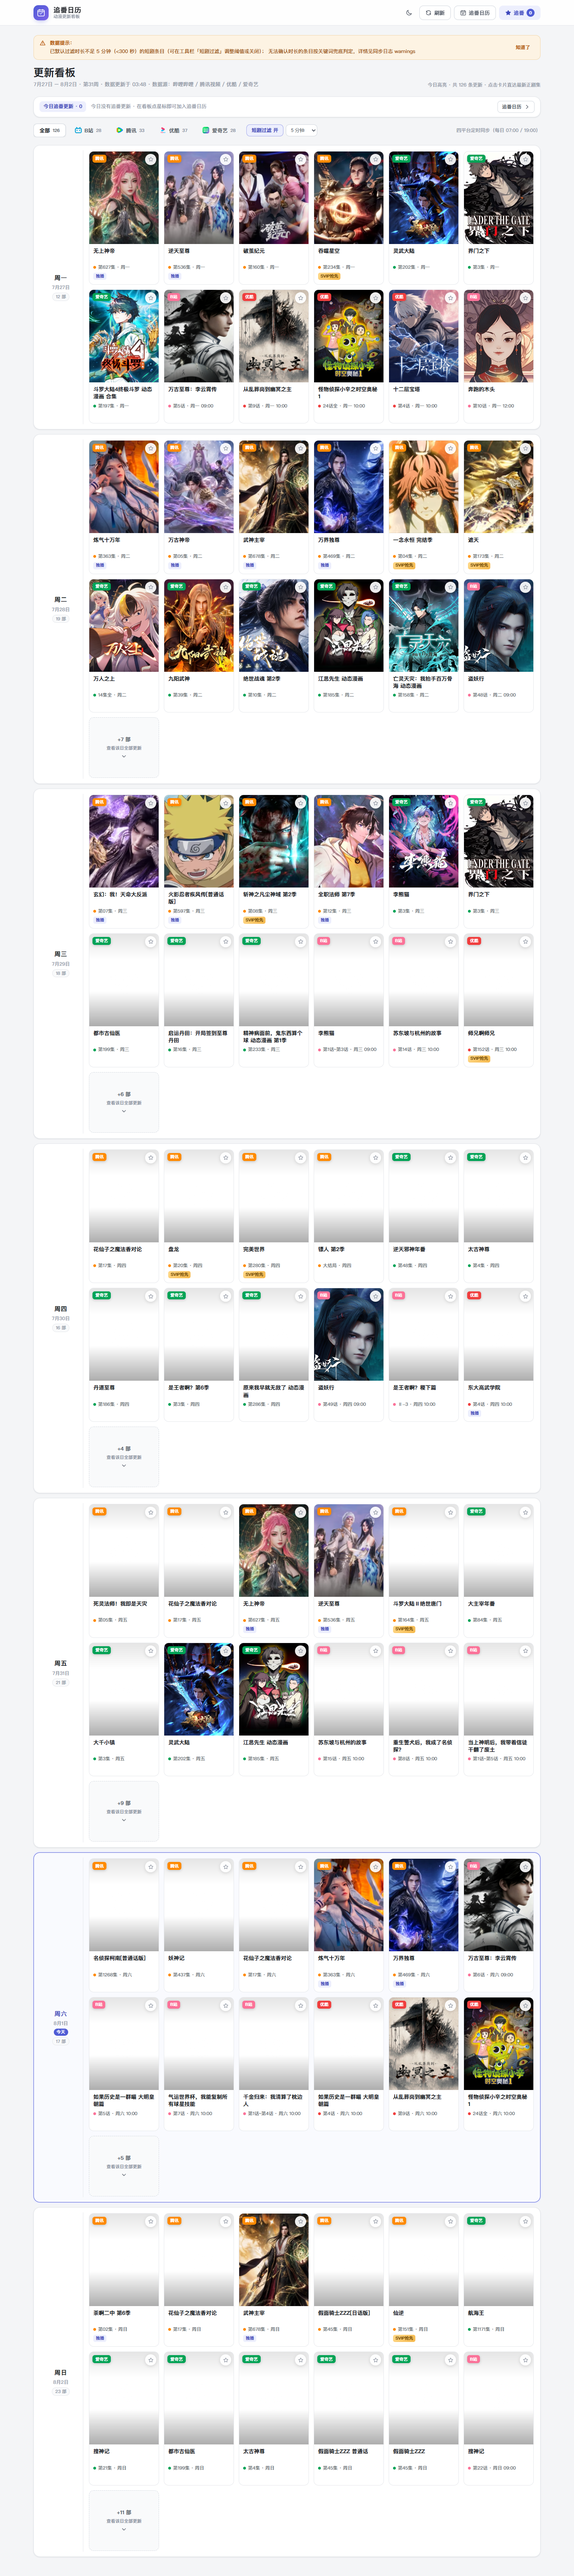
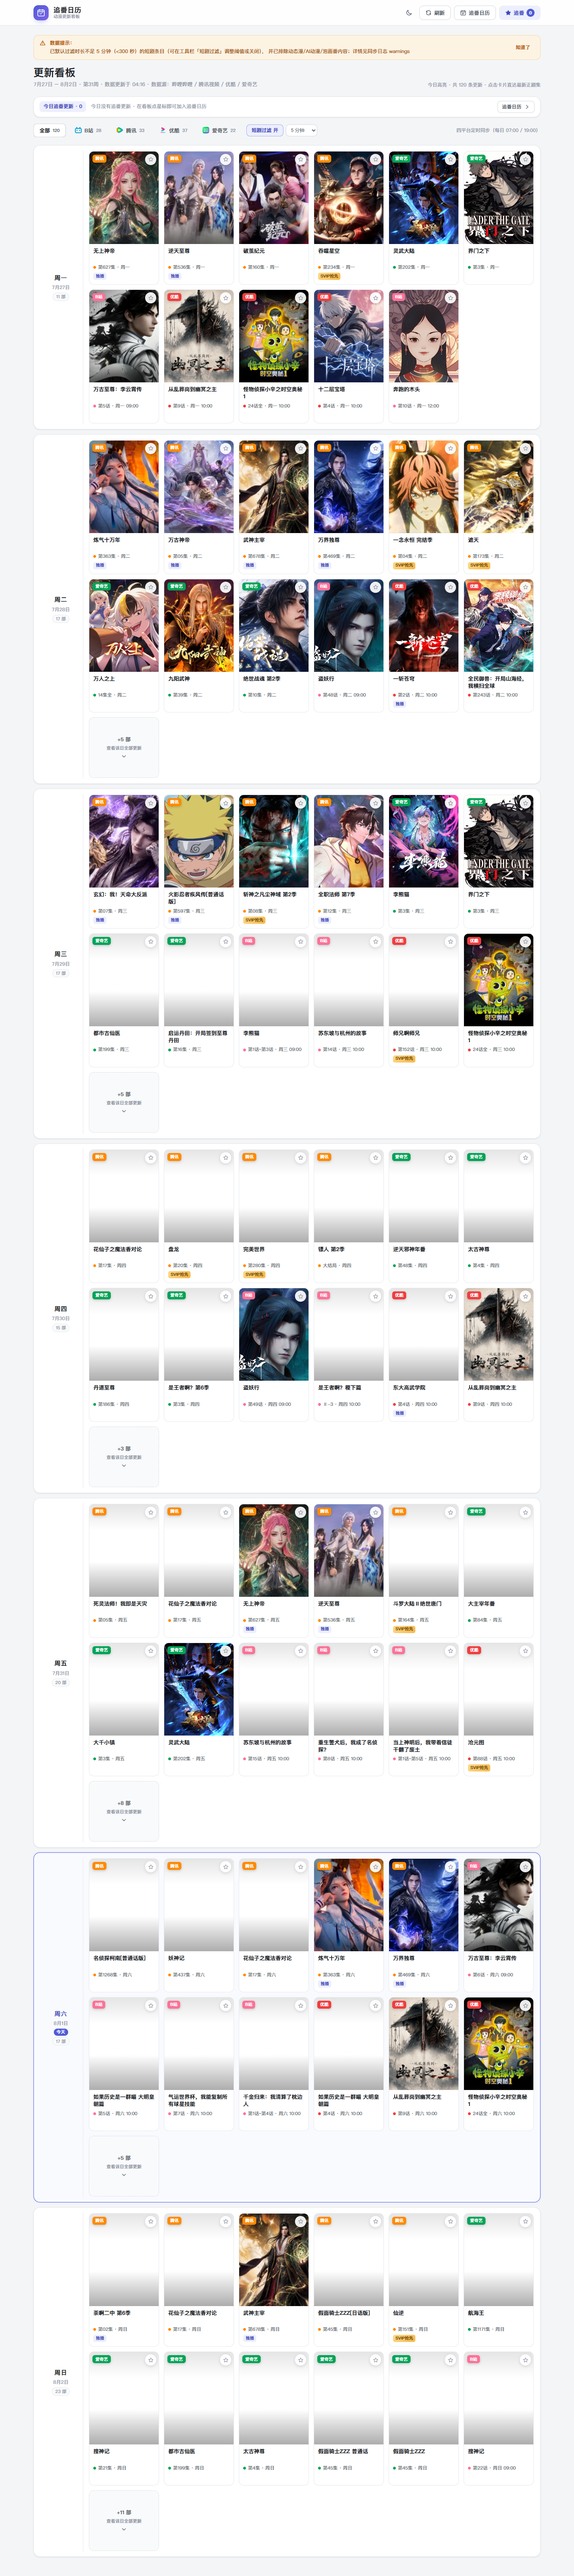
fix: exclude dongman/AI-anime content type at sync regardless of duration
- iqiyi mixed in 11 dynamic-comic titles (61-732s) that passed the 5-min filter; drop all titles matching dongman/AI/pocket anime keywords with per-item warnings

- refresh updates.json (iqiyi 35->24, dongman count 0) and QA screenshots/ledger

diff --git a/src/components/Banners.tsx b/src/components/Banners.tsx
@@ -7,8 +7,8 @@ export function WarnBanner({ onClose }: { onClose: () => void }) {
       <div className="warn-text">
         <span className="warn-title">数据提示：</span>
         <span className="warn-body">
-          已默认过滤时长不足 5 分钟（&lt;300 秒）的短剧条目（可在工具栏「短剧过滤」调整阈值或关闭）；
-          无法确认时长的条目按关键词兜底判定，详情见同步日志 warnings
+          已默认过滤时长不足 5 分钟（&lt;300 秒）的短剧条目（可在工具栏「短剧过滤」调整阈值或关闭），
+          并已排除动态漫/AI动漫/泡面番内容；详情见同步日志 warnings
         </span>
       </div>
       <div className="warn-actions">

diff --git a/AGENTS.md b/AGENTS.md
@@ -12,7 +12,7 @@
 - 追番日历与「今日追番更新」默认**仅已追番**，可切换全部番剧。
 - 短剧过滤（前端开关）：同步**保留**全部已知时长条目（含 <300s 短条目）；前端「短剧过滤」默认开启、阈值默认 300s 可调（localStorage 键 `anime-calendar.shortfilter.v1`），关闭时展示全部。
 - 时长富集：B站季分集接口 `api.bilibili.com/pgc/view/web/season?season_id=`（毫秒，按 episode_id 匹配、正片最新集兜底）；优酷 show_page 内联时长（秒/ISO 8601）优先 + 播放页 `pageMap.extra.duration` 兜底；爱奇艺专辑分集接口 `pcw-api.iqiyi.com/albums/album/avlistinfo?aid=`（按集数匹配、最新集兜底）。
-- 缺失时长且命中 AI 短剧关键词（动态漫/AI动漫/泡面番）的条目在同步时丢弃并记入 `warnings`；爱奇艺另以评论区「AI 关键字 + 负面情绪」启发式过滤（限流时优雅降级）。
+- 内容类型排除：标题含「动态漫/AI动漫/泡面番」（AI 生成短剧）的条目在同步时直接丢弃并记入 `warnings`（与时长无关）；爱奇艺另以评论区「AI 关键字 + 负面情绪」启发式过滤（限流时优雅降级）。
 - 腾讯更新规则：卡片下方「每周X…」规则文案入库为 `rule` 字段；SVIP 抢先去重仅限卡片文案含 SVIP 的相邻同日集重复。
 - 本地存储键：追番 `anime-calendar.follows.v1`；主题 `anime-calendar.theme.v1`。
 

diff --git a/outputs/design/qa/保真度台账-M3.md b/outputs/design/qa/保真度台账-M3.md
@@ -77,6 +77,10 @@
 
 验证：`work/app-qa.mjs`（新增短剧过滤开关 126→195、默认周视图 + 返回按钮断言）与 `work/m3-qa.mjs` 全部断言通过；`data/updates.json` 重新生成（195 条，含 69 条 <300s 短条目供前端过滤）。
 
+## 3.4 五次修复（用户反馈第 4 轮：动态漫画混入）
+
+爱奇艺仍混入 11 条「动态漫画」（时长 61~732s，按 5 分钟阈值拦不住）。同步清洗层改为**按内容类型直接排除**标题含「动态漫/AI动漫/泡面番」的条目（与时长无关），逐条记入 warnings；横幅文案同步说明。`data/updates.json` 重新生成（184 条，爱奇艺 35→24 条，动态漫画清零）。
+
 ## 4. 有意偏差（数据驱动，非布局变更）
 
 - 页头副标题显示真实数据周范围与同步时间（原型为示例固定值）。
